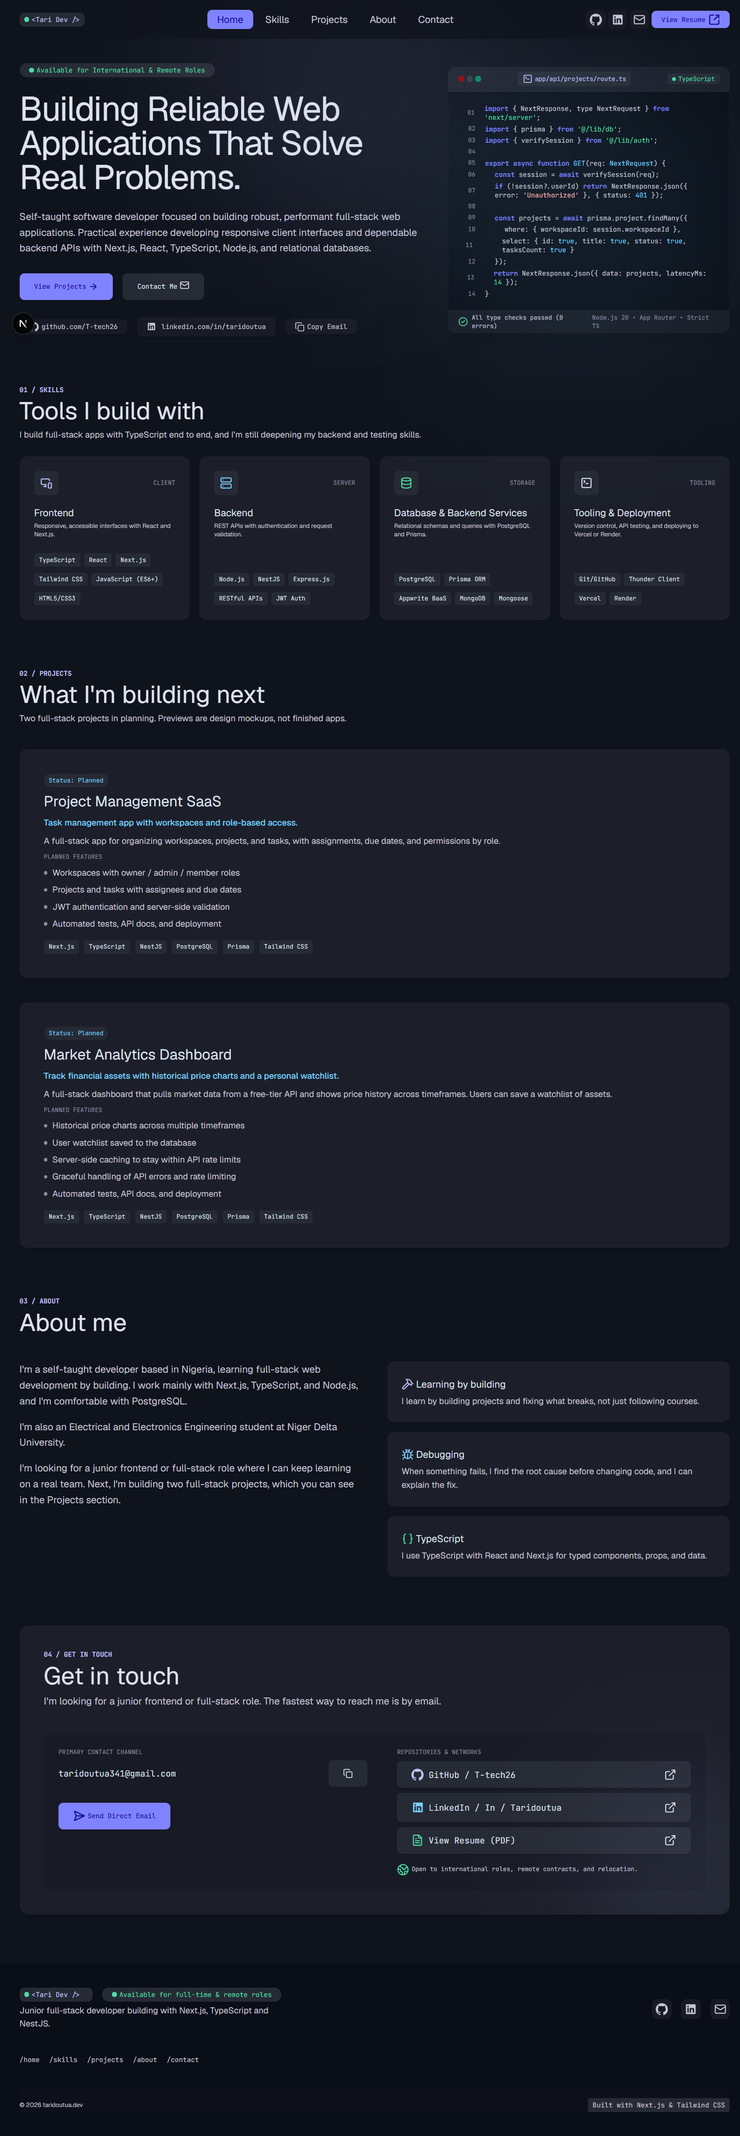
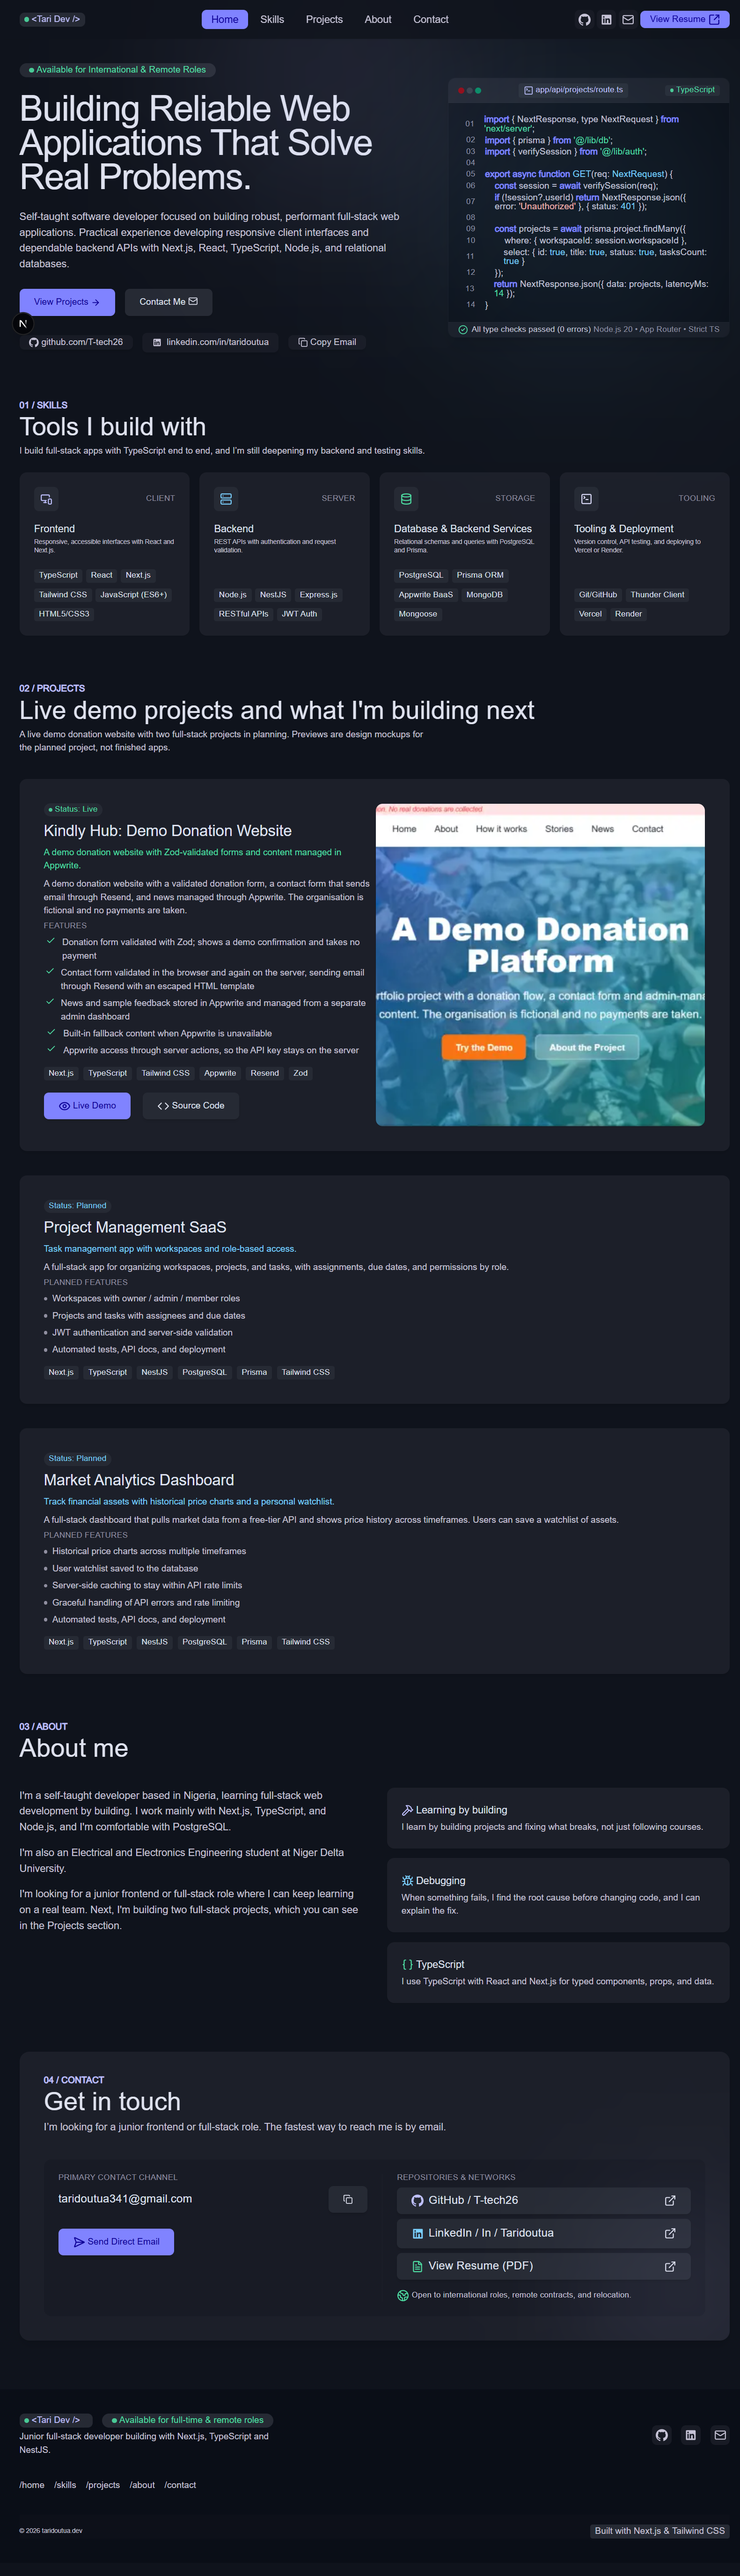
docs: update README for Kindly Hub

diff --git a/README.md b/README.md
@@ -11,6 +11,8 @@ Personal portfolio site for Tariladei Doutua, a self-taught developer looking fo
 A single-page portfolio with sections for skills, projects, about, and contact.
 There is no backend: all content lives in typed data files, so updating the site means editing data, not components.
 
+Projects: [Kindly Hub](https://kindly-hub.vercel.app), a demo donation website, is live. Two further full-stack projects are planned.
+
 ## Tech stack
 
 - Next.js 16 (App Router) with TypeScript
@@ -28,6 +30,8 @@ There is no backend: all content lives in typed data files, so updating the site
 - Smooth-scroll navigation, disabled for users who prefer reduced motion
 
 ## Getting started
+
+Requires Node.js 20.9 or newer.
 
 ```bash
 git clone https://github.com/T-tech26/my-portfolio.git
@@ -57,7 +61,7 @@ src/
   converted the exported HTML into components instead of pasting it, and moved its colors, spacing, and type scale into Tailwind theme tokens.
 - **Content in typed data files.** Skills, projects, and links are arrays in `src/data`, typed in `src/types`. Components only render data.
 - **Server components by default.** Only the interactive parts (mobile nav, copy button) are client components, to keep client JavaScript small.
-- **Projects labelled honestly.** Both projects are marked "Planned" with design previews. Nothing is presented as built until it exists.
+- **Projects labelled honestly.** Kindly Hub is built and live, and it is a demo with a fictional organisation. The two other projects are marked "Planned" with design previews. Nothing is presented as built until it exists.
 - **No backend.** A portfolio doesn't need one, so I kept it static.
 
 ## Accessibility
@@ -73,7 +77,7 @@ src/
 
 - [ ] Build Project 1: Project Management SaaS
 - [ ] Build Project 2: Market Analytics Dashboard
-- [ ] Replace design previews with real screenshots
+- [ ] Replace the design previews of the planned projects with real screenshots once they are built
 - [ ] Add resume PDF
 
 ## Contact
